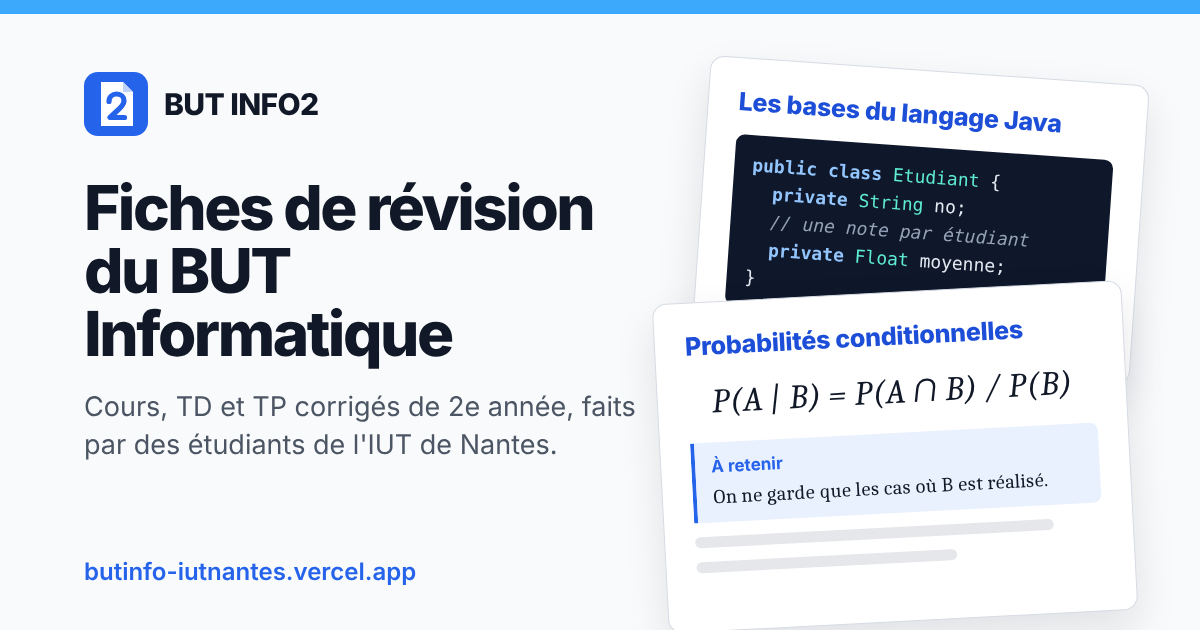
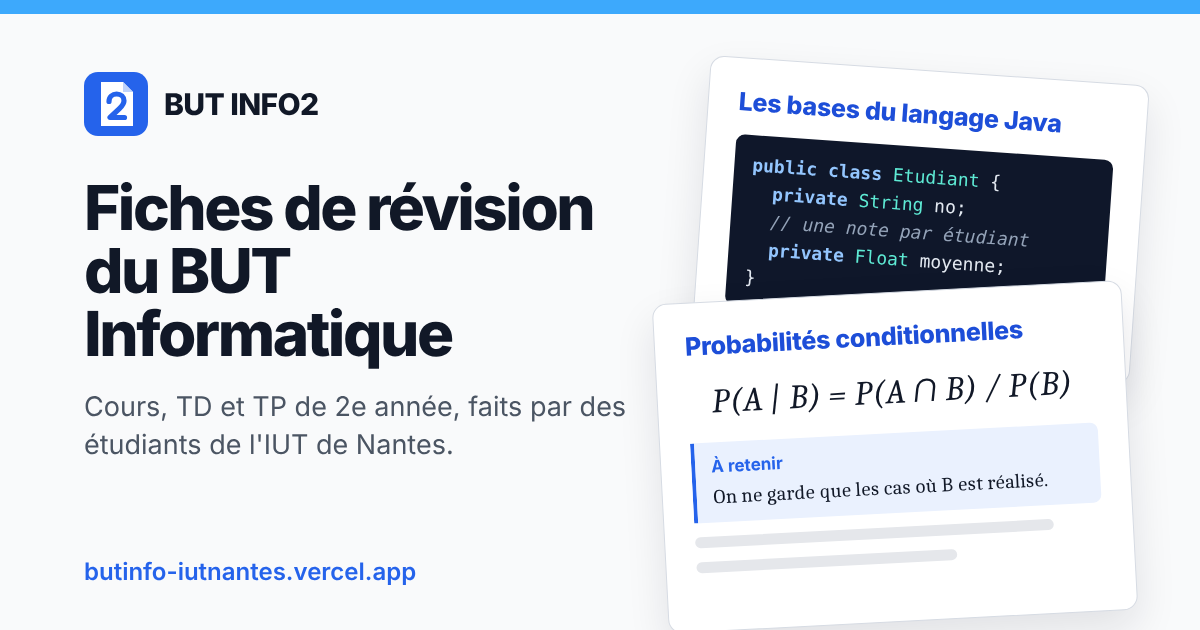
fix deploiement pages + remise de l'exercice 6 + descriptions

Changed region(s): [[0.0617, 0.6937, 0.4625, 0.7238], [0.2467, 0.6333, 0.5242, 0.6635]]

diff --git a/pages/math/crypto/tp/ex6.html b/pages/math/crypto/tp/ex6.html
@@ -3,7 +3,22 @@
 <head>
   <meta charset="UTF-8">
   <meta name="viewport" content="width=device-width, initial-scale=1.0">
-  <title>Exercice 6 - RSA et signature numérique</title>
+  <title>Exercice 6 : RSA et signature numérique (TP R309) | BUT Info Nantes</title>
+  <meta name="description" content="Créer une paire de clés RSA, chiffrer un entier puis un message long découpé en paquets, et signer un message que tout le monde peut vérifier.">
+  <link rel="canonical" href="https://butinfo-iutnantes.vercel.app/pages/math/crypto/tp/ex6.html">
+  <meta property="og:type" content="website">
+  <meta property="og:site_name" content="BUT INFO2">
+  <meta property="og:locale" content="fr_FR">
+  <meta property="og:title" content="Exercice 6 : RSA et signature numérique (TP R309)">
+  <meta property="og:description" content="Créer une paire de clés RSA, chiffrer un entier puis un message long découpé en paquets, et signer un message que tout le monde peut vérifier.">
+  <meta property="og:url" content="https://butinfo-iutnantes.vercel.app/pages/math/crypto/tp/ex6.html">
+  <meta property="og:image" content="https://butinfo-iutnantes.vercel.app/img/partage.png">
+  <meta name="twitter:card" content="summary_large_image">
+  <meta name="theme-color" content="#2563eb">
+  <link rel="icon" href="../../../../favicon.ico" sizes="48x48">
+  <link rel="icon" href="../../../../img/icon.svg" type="image/svg+xml">
+  <link rel="apple-touch-icon" href="../../../../img/apple-touch-icon.png">
+  <link rel="manifest" href="../../../../site.webmanifest">
 
   <!-- MathJax : affichage des formules écrites entre $...$ et $$...$$ -->
   <script>
@@ -35,6 +50,9 @@
                 color: inherit; border: 1px solid var(--bordure-forte); border-radius: 6px; margin: 0.5rem 0; }
     #demo-sortie { margin-top: 1rem; }
   </style>
+  <script type="application/ld+json">
+  {"@context": "https://schema.org", "@type": "BreadcrumbList", "itemListElement": [{"@type": "ListItem", "position": 1, "name": "BUT INFO2", "item": "https://butinfo-iutnantes.vercel.app/"}, {"@type": "ListItem", "position": 2, "name": "R309 - Cryptographie et sécurité", "item": "https://butinfo-iutnantes.vercel.app/pages/math/crypto/indexCrypto.html"}, {"@type": "ListItem", "position": 3, "name": "TP", "item": "https://butinfo-iutnantes.vercel.app/pages/math/crypto/tp.html"}, {"@type": "ListItem", "position": 4, "name": "Exercice 6 : RSA et signature numérique", "item": "https://butinfo-iutnantes.vercel.app/pages/math/crypto/tp/ex6.html"}]}
+  </script>
 </head>
 <body>
 
@@ -410,7 +428,7 @@ print("Signature valide :", hash_decrypte == hash_recu)</code></pre>
 
   <!-- SYNTHÈSE -->
   <section class="loi-card">
-    <h2>Synthèse des Notions Clés</h2>
+    <h2>Synthèse des notions clés</h2>
     <div class="table-container">
       <table>
         <thead>

diff --git a/pages/math/crypto/tp.html b/pages/math/crypto/tp.html
@@ -5,13 +5,13 @@
   <meta charset="UTF-8">
   <meta name="viewport" content="width=device-width, initial-scale=1.0">
   <title>TP de cryptographie (R309) | BUT Info Nantes</title>
-  <meta name="description" content="Corrigés des cinq exercices du TP de R309 : nombres premiers, Euclide et Bézout, congruences, chiffrement affine et logarithme discret.">
+  <meta name="description" content="Réponses d'étudiants aux six exercices du TP de R309 : nombres premiers, Euclide et Bézout, congruences, chiffrement affine, logarithme discret et RSA.">
   <link rel="canonical" href="https://butinfo-iutnantes.vercel.app/pages/math/crypto/tp.html">
   <meta property="og:type" content="website">
   <meta property="og:site_name" content="BUT INFO2">
   <meta property="og:locale" content="fr_FR">
   <meta property="og:title" content="TP de cryptographie (R309)">
-  <meta property="og:description" content="Corrigés des cinq exercices du TP de R309 : nombres premiers, Euclide et Bézout, congruences, chiffrement affine et logarithme discret.">
+  <meta property="og:description" content="Réponses d'étudiants aux six exercices du TP de R309 : nombres premiers, Euclide et Bézout, congruences, chiffrement affine, logarithme discret et RSA.">
   <meta property="og:url" content="https://butinfo-iutnantes.vercel.app/pages/math/crypto/tp.html">
   <meta property="og:image" content="https://butinfo-iutnantes.vercel.app/img/partage.png">
   <meta name="twitter:card" content="summary_large_image">
@@ -67,6 +67,13 @@
                 <h2>Exercice 5</h2>
             </div>
             <a href="tp/ex5.html" class="btn-lien">Accéder</a>
+        </section>
+
+        <section class="menu-card">
+            <div>
+                <h2>Exercice 6</h2>
+            </div>
+            <a href="tp/ex6.html" class="btn-lien">Accéder</a>
         </section>
     </div>
 </body>

diff --git a/pages/web/TD/Java/td-java.html b/pages/web/TD/Java/td-java.html
@@ -4,13 +4,13 @@
   <meta charset="UTF-8">
   <meta name="viewport" content="width=device-width, initial-scale=1.0">
   <title>TD Java : classes et pattern DAO (R301) | BUT Info Nantes</title>
-  <meta name="description" content="Corrigé du TD Java de R301 : classes Etudiant et Promotion, héritage, exceptions, puis un DAO classique et un DAO avec Optional.">
+  <meta name="description" content="Réponses au TD Java de R301 : classes Etudiant et Promotion, héritage, exceptions, puis un DAO classique et un DAO avec Optional.">
   <link rel="canonical" href="https://butinfo-iutnantes.vercel.app/pages/web/TD/Java/td-java.html">
   <meta property="og:type" content="website">
   <meta property="og:site_name" content="BUT INFO2">
   <meta property="og:locale" content="fr_FR">
   <meta property="og:title" content="TD Java : classes et pattern DAO (R301)">
-  <meta property="og:description" content="Corrigé du TD Java de R301 : classes Etudiant et Promotion, héritage, exceptions, puis un DAO classique et un DAO avec Optional.">
+  <meta property="og:description" content="Réponses au TD Java de R301 : classes Etudiant et Promotion, héritage, exceptions, puis un DAO classique et un DAO avec Optional.">
   <meta property="og:url" content="https://butinfo-iutnantes.vercel.app/pages/web/TD/Java/td-java.html">
   <meta property="og:image" content="https://butinfo-iutnantes.vercel.app/img/partage.png">
   <meta name="twitter:card" content="summary_large_image">

diff --git a/pages/web/indexWeb.html b/pages/web/indexWeb.html
@@ -5,13 +5,13 @@
   <meta charset="UTF-8">
   <meta name="viewport" content="width=device-width, initial-scale=1.0">
   <title>Développement web (R301) | BUT Info Nantes</title>
-  <meta name="description" content="Les fiches de R301 : les bases de Java, le fonctionnement des servlets et les corrigés des TD Java, servlets et JSP.">
+  <meta name="description" content="Les fiches de R301 : les bases de Java, le fonctionnement des servlets et les TD Java, servlets et JSP avec leurs réponses.">
   <link rel="canonical" href="https://butinfo-iutnantes.vercel.app/pages/web/indexWeb.html">
   <meta property="og:type" content="website">
   <meta property="og:site_name" content="BUT INFO2">
   <meta property="og:locale" content="fr_FR">
   <meta property="og:title" content="Développement web (R301)">
-  <meta property="og:description" content="Les fiches de R301 : les bases de Java, le fonctionnement des servlets et les corrigés des TD Java, servlets et JSP.">
+  <meta property="og:description" content="Les fiches de R301 : les bases de Java, le fonctionnement des servlets et les TD Java, servlets et JSP avec leurs réponses.">
   <meta property="og:url" content="https://butinfo-iutnantes.vercel.app/pages/web/indexWeb.html">
   <meta property="og:image" content="https://butinfo-iutnantes.vercel.app/img/partage.png">
   <meta name="twitter:card" content="summary_large_image">

diff --git a/pages/math/crypto/indexCrypto.html b/pages/math/crypto/indexCrypto.html
@@ -5,13 +5,13 @@
   <meta charset="UTF-8">
   <meta name="viewport" content="width=device-width, initial-scale=1.0">
   <title>Cryptographie et sécurité (R309) | BUT Info Nantes</title>
-  <meta name="description" content="Le cours d'arithmétique de R309 et les corrigés des cinq exercices du TP de cryptographie.">
+  <meta name="description" content="Le cours d'arithmétique de R309 et des réponses d'étudiants aux six exercices du TP de cryptographie.">
   <link rel="canonical" href="https://butinfo-iutnantes.vercel.app/pages/math/crypto/indexCrypto.html">
   <meta property="og:type" content="website">
   <meta property="og:site_name" content="BUT INFO2">
   <meta property="og:locale" content="fr_FR">
   <meta property="og:title" content="Cryptographie et sécurité (R309)">
-  <meta property="og:description" content="Le cours d'arithmétique de R309 et les corrigés des cinq exercices du TP de cryptographie.">
+  <meta property="og:description" content="Le cours d'arithmétique de R309 et des réponses d'étudiants aux six exercices du TP de cryptographie.">
   <meta property="og:url" content="https://butinfo-iutnantes.vercel.app/pages/math/crypto/indexCrypto.html">
   <meta property="og:image" content="https://butinfo-iutnantes.vercel.app/img/partage.png">
   <meta name="twitter:card" content="summary_large_image">

diff --git a/pages/web/TD/td.html b/pages/web/TD/td.html
@@ -5,13 +5,13 @@
   <meta charset="UTF-8">
   <meta name="viewport" content="width=device-width, initial-scale=1.0">
   <title>TD de développement web (R301) | BUT Info Nantes</title>
-  <meta name="description" content="Les corrigés des TD de R301 : Java et pattern DAO, servlets, JSP.">
+  <meta name="description" content="Les TD de R301 avec des réponses d'étudiants : Java et pattern DAO, servlets, JSP.">
   <link rel="canonical" href="https://butinfo-iutnantes.vercel.app/pages/web/TD/td.html">
   <meta property="og:type" content="website">
   <meta property="og:site_name" content="BUT INFO2">
   <meta property="og:locale" content="fr_FR">
   <meta property="og:title" content="TD de développement web (R301)">
-  <meta property="og:description" content="Les corrigés des TD de R301 : Java et pattern DAO, servlets, JSP.">
+  <meta property="og:description" content="Les TD de R301 avec des réponses d'étudiants : Java et pattern DAO, servlets, JSP.">
   <meta property="og:url" content="https://butinfo-iutnantes.vercel.app/pages/web/TD/td.html">
   <meta property="og:image" content="https://butinfo-iutnantes.vercel.app/img/partage.png">
   <meta name="twitter:card" content="summary_large_image">

diff --git a/js/script.js b/js/script.js
@@ -277,6 +277,18 @@ const pages = [
       "Algorithme de Shanks : pas de bébé, pas de géant", "Exemple détaillé : bsgs(3, 11, 43)", "Synthèse",
     ],
   },
+  {
+    titre: "Exercice 6 : RSA et signature numérique",
+    lien: "pages/math/crypto/tp/ex6.html",
+    matiere: "crypto",
+    type: "TP",
+    parent: "pages/math/crypto/tp.html",
+    sections: [
+      "Principe général", "Génération de la clé : key_creation()", "Les fonctions mathématiques de rsa_math.py",
+      "Chiffrer et déchiffrer un entier", "Message long : découpage en paquets de 4 chiffres",
+      "Message signé", "Démo : signer et vérifier", "Synthèse",
+    ],
+  },
 ];
 
 
